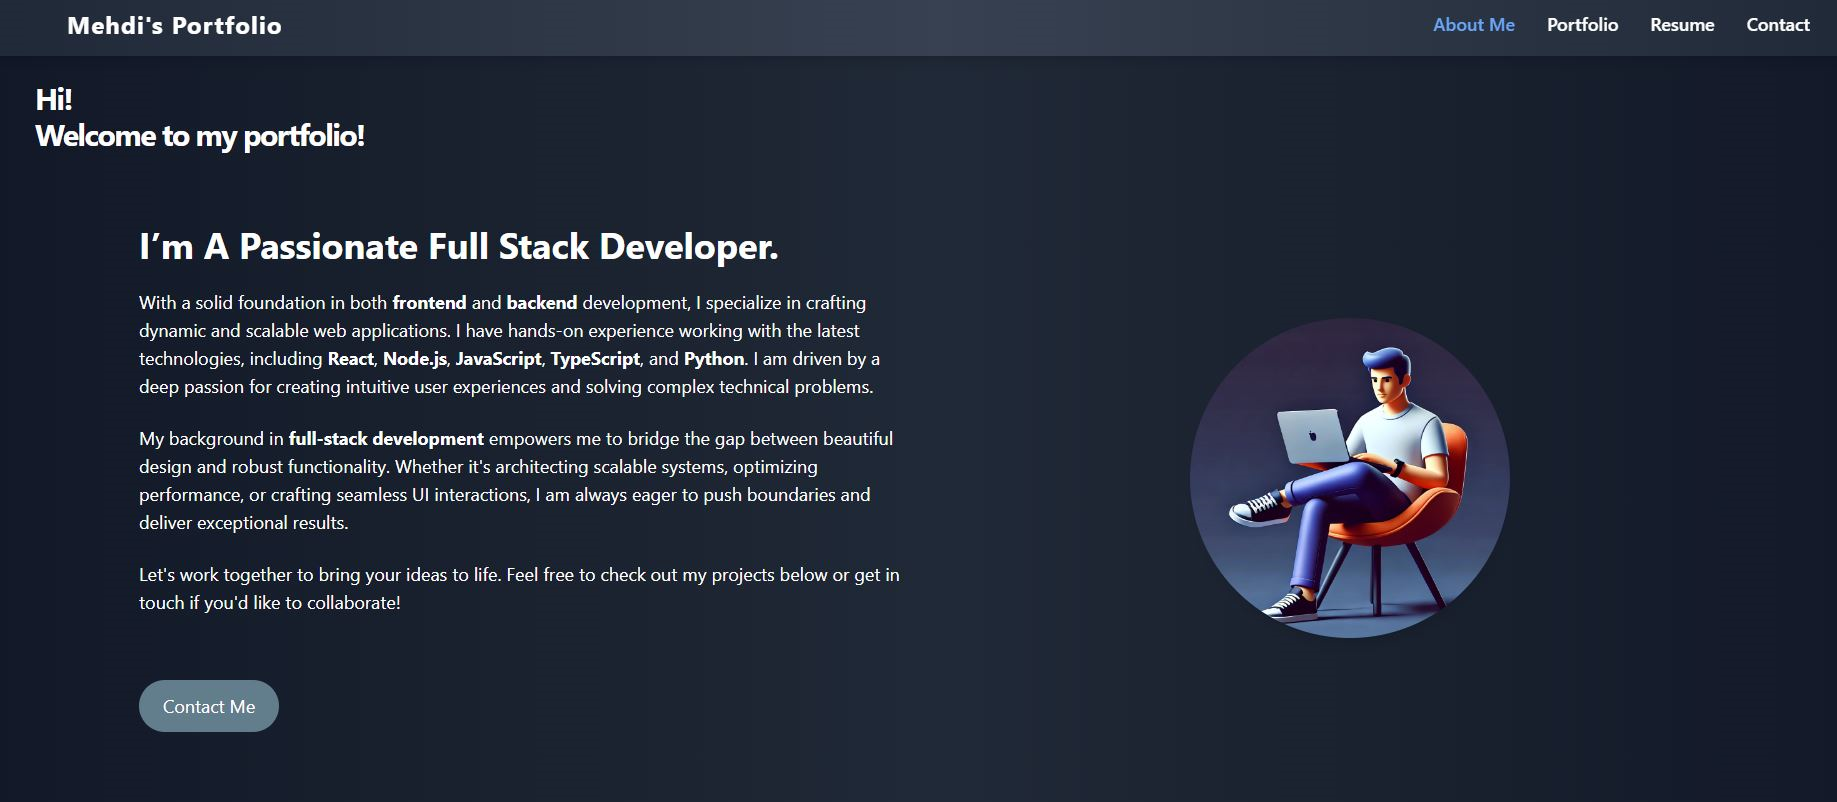
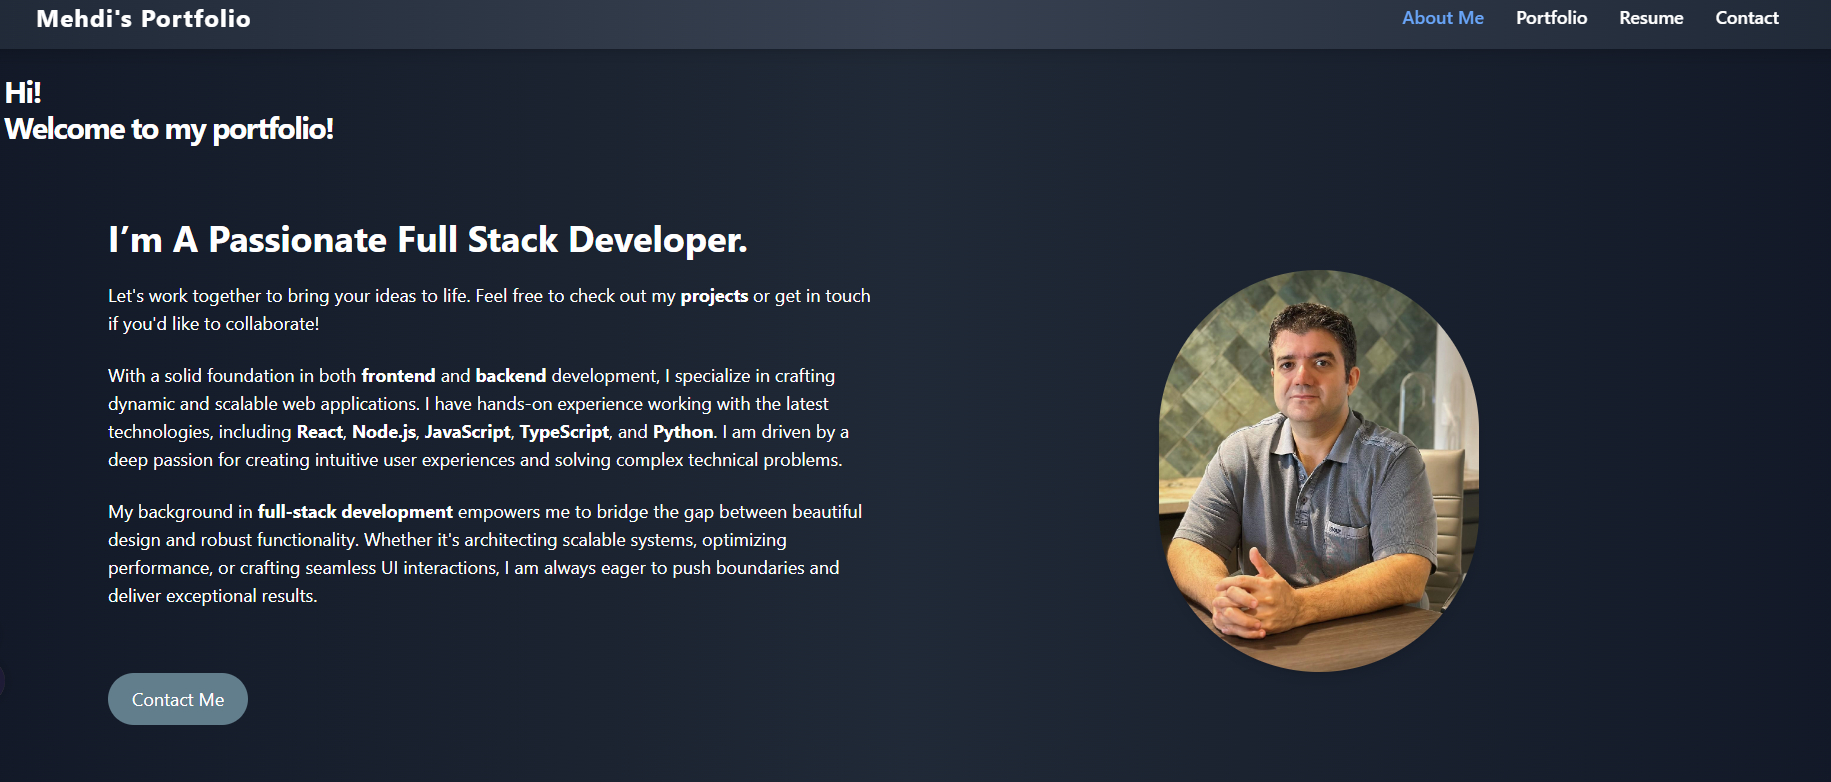
About page text link added

diff --git a/src/assets/Components/About/About.jsx b/src/assets/Components/About/About.jsx
@@ -2,6 +2,7 @@ import React from "react";
 import avatar from "../../7358602-removebg-preview.png";
 import { useNavigate } from "react-router-dom";
 import TextChange from "../TextChange";
+import { Link } from "react-router-dom";
 
 const About = () => {
   const navigate = useNavigate();
@@ -23,6 +24,11 @@ const About = () => {
               I’m A Passionate Full Stack Developer.
             </h2>
             <p className="text-sm md:text-lg leading-relaxed mb-6">
+              Let's work together to bring your ideas to life. Feel free to
+              check out my{" "}<Link to="/portfolio"><strong>projects</strong>
+              </Link>{" "}or get in touch if you'd like to collaborate!
+            </p>
+            <p className="text-sm md:text-lg leading-relaxed mb-6">
               With a solid foundation in both <strong>frontend</strong> and{" "}
               <strong>backend</strong> development, I specialize in crafting
               dynamic and scalable web applications. I have hands-on experience
@@ -39,11 +45,6 @@ const About = () => {
               functionality. Whether it's architecting scalable systems,
               optimizing performance, or crafting seamless UI interactions, I am
               always eager to push boundaries and deliver exceptional results.
-            </p>
-            <p className="text-sm md:text-lg leading-relaxed mb-6">
-              Let's work together to bring your ideas to life. Feel free to
-              check out my projects below or get in touch if you'd like to
-              collaborate!
             </p>
             <button
               className="mt-5 md:mt-10 text-white py-3 px-6 bg-[#607D8B] text-sm md:text-lg rounded-full hover:bg-[#FF8C00] transition-all duration-300 ease-in-out"
